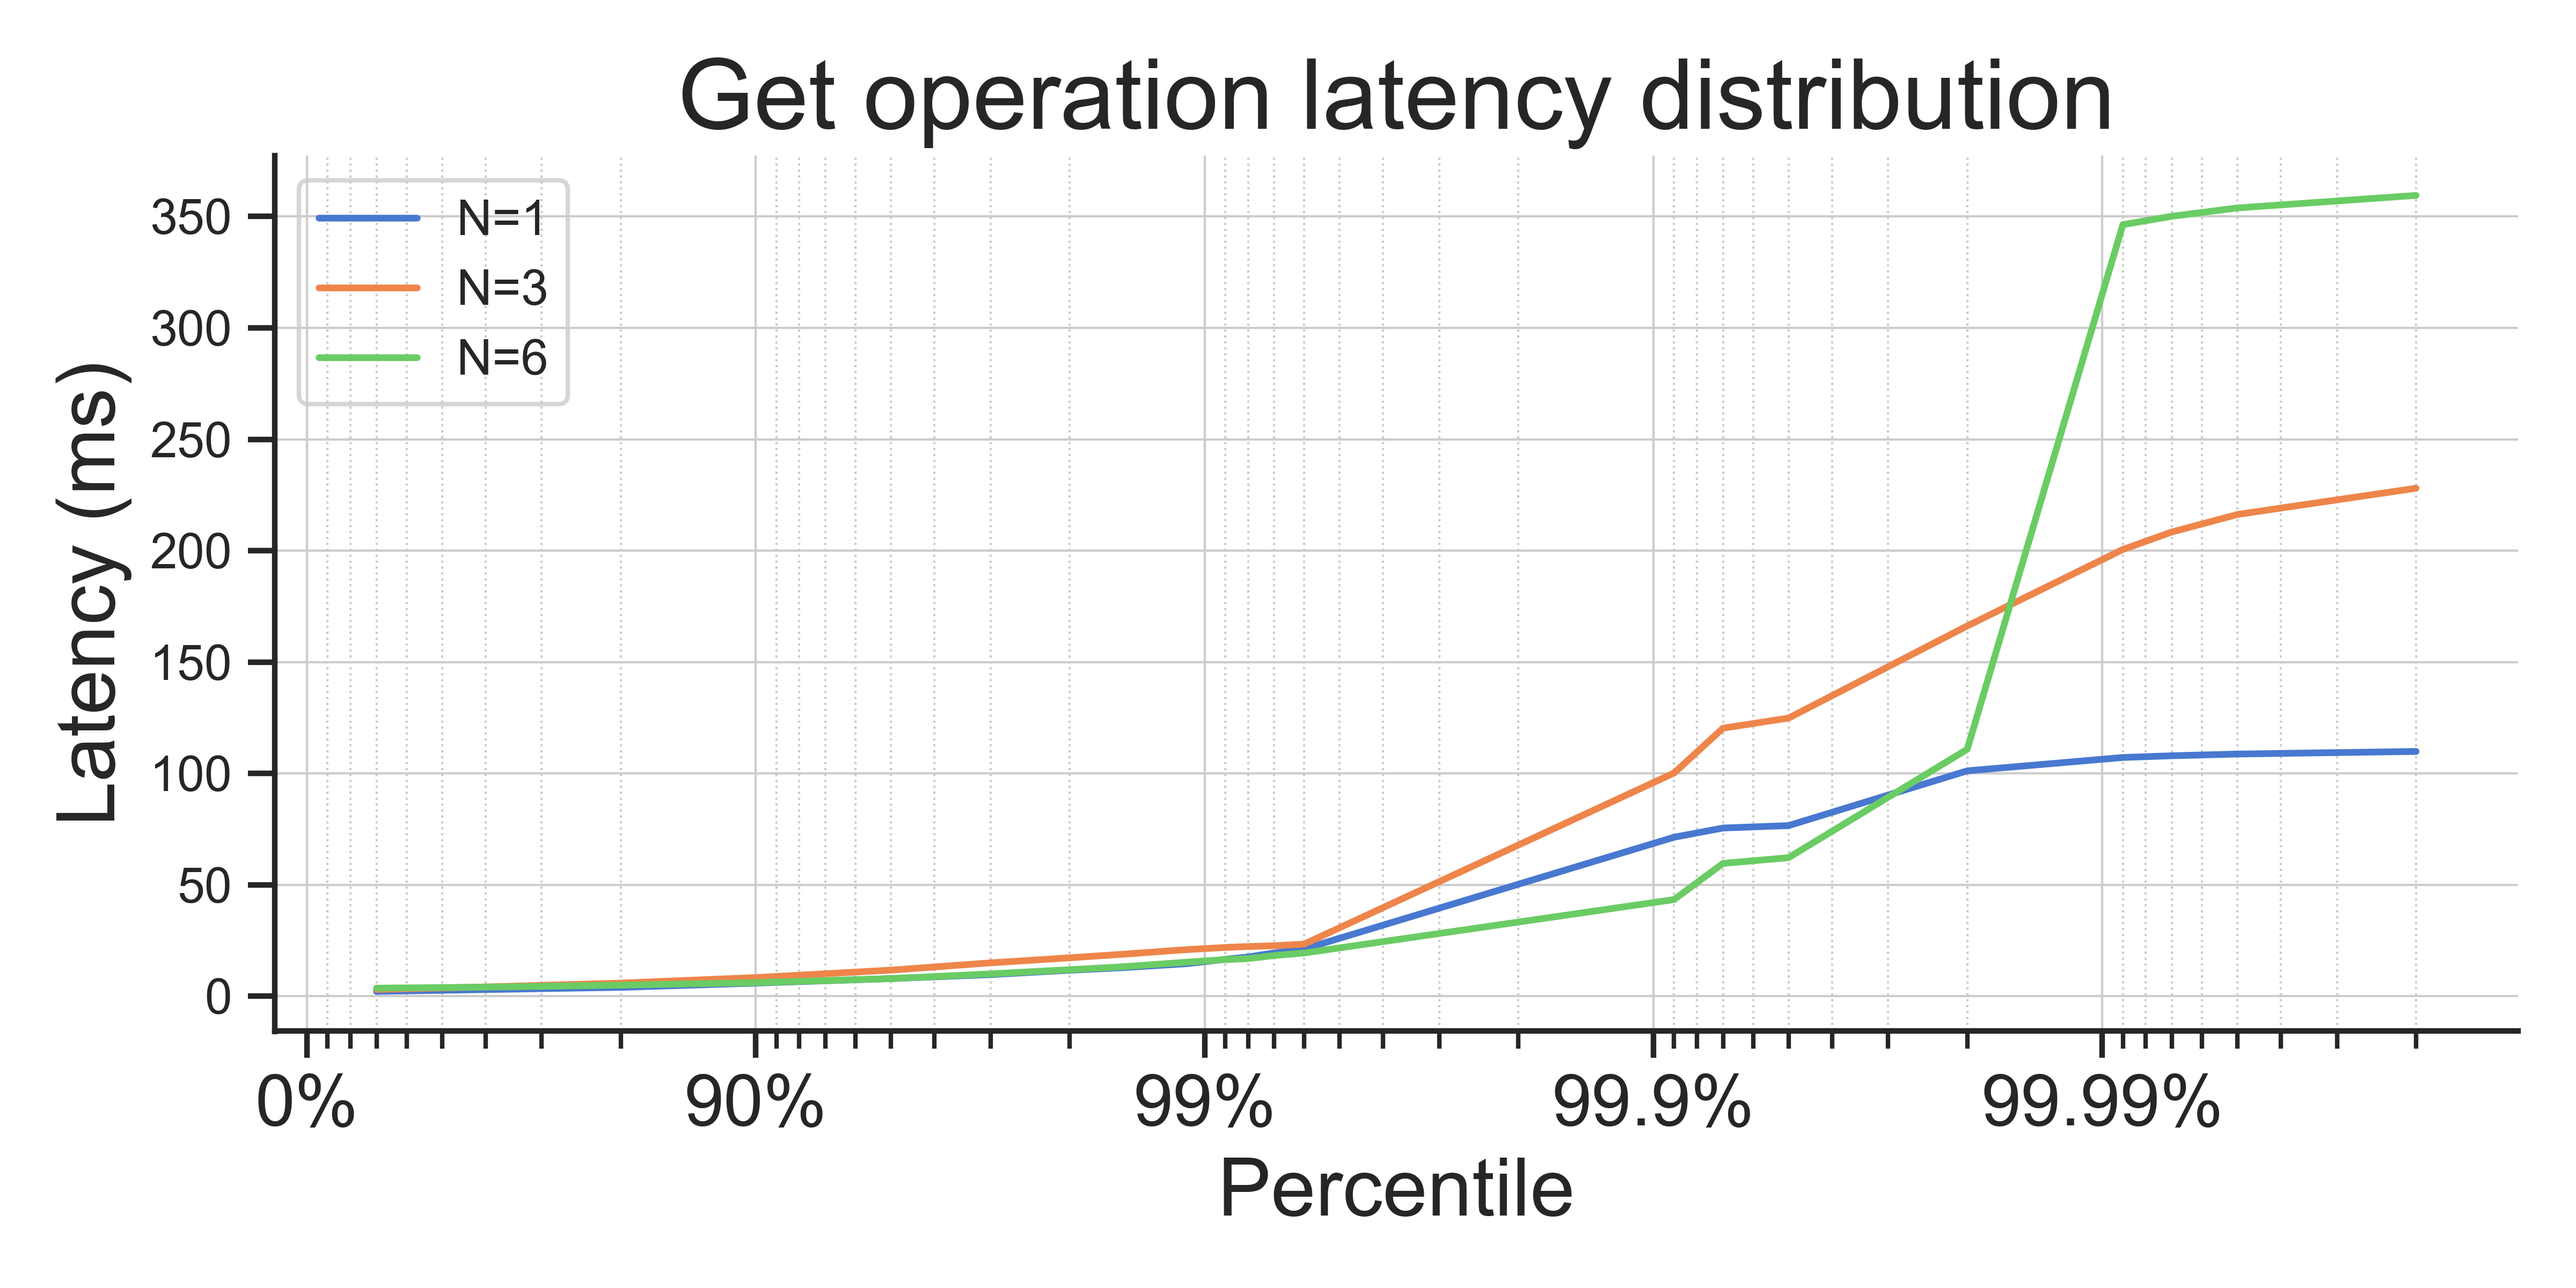
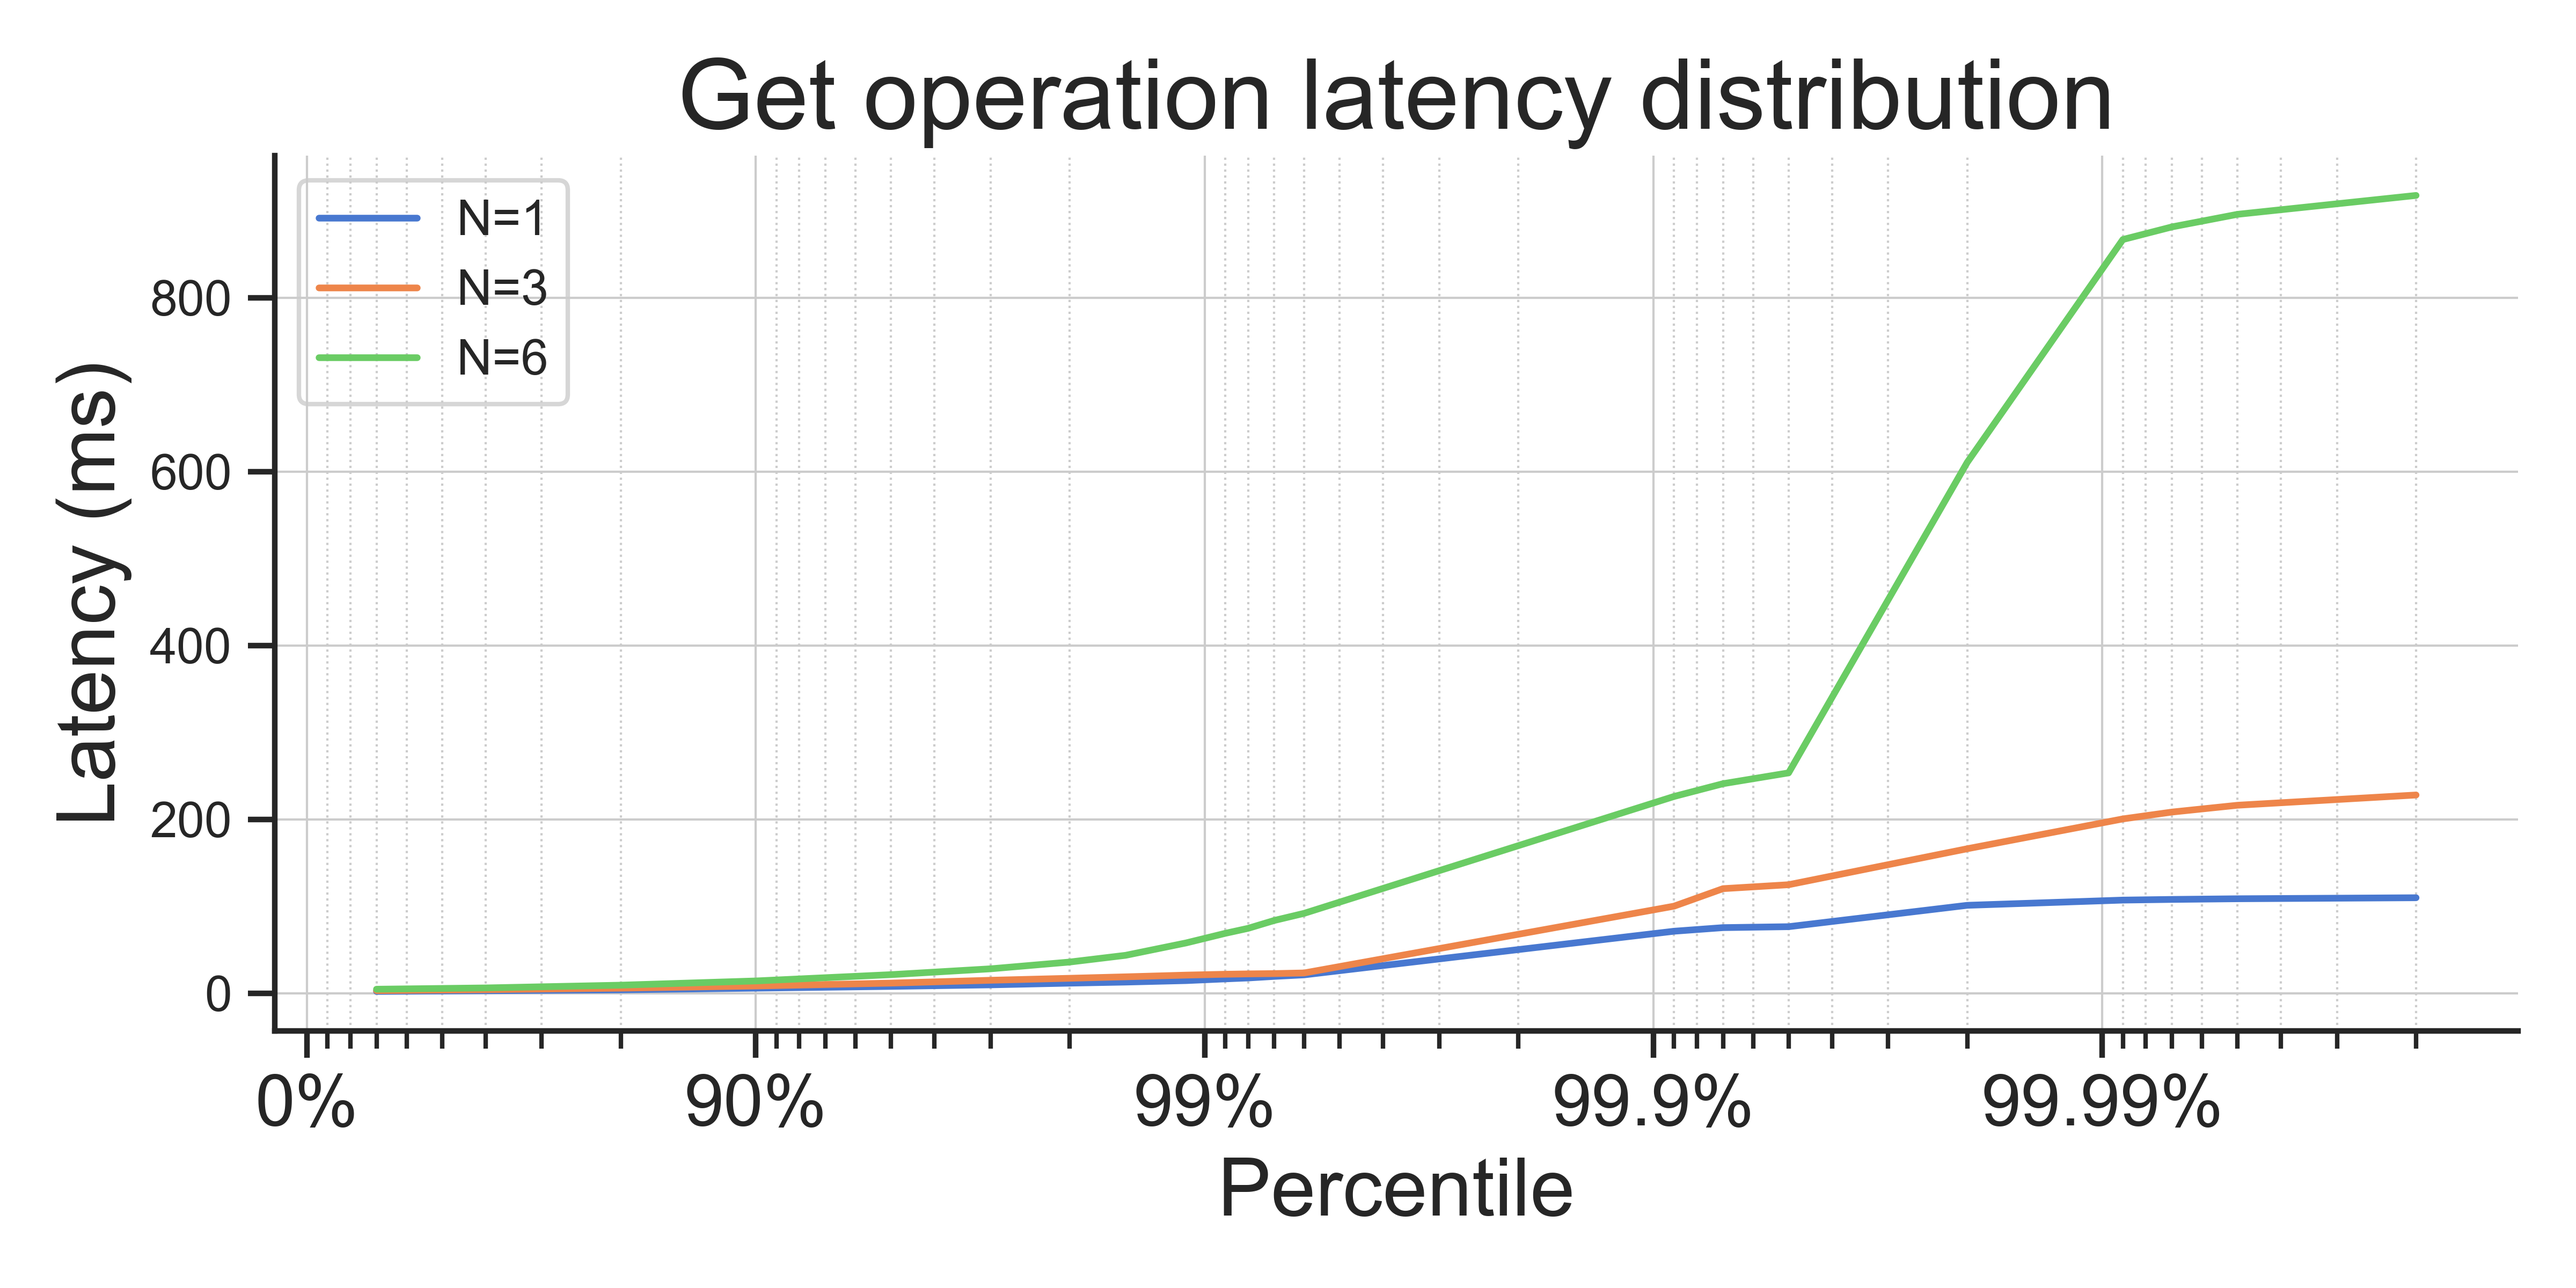
Better pictures

diff --git a/main.py b/main.py
@@ -17,8 +17,8 @@ put_latency_1 = cluster_put_latency_n_1_1
 get_latency_3 = cluster_get_latency_n_3_3
 put_latency_3 = cluster_put_latency_n_3_3
 
-get_latency_6 = cluster_get_latency_n_6_2
-put_latency_6 = cluster_put_latency_n_6_2
+get_latency_6 = cluster_get_latency_n_6_3
+put_latency_6 = cluster_put_latency_n_6_3
 
 get_sorted = np.sort(get_latency)
 put_sorted = np.sort(put_latency)
